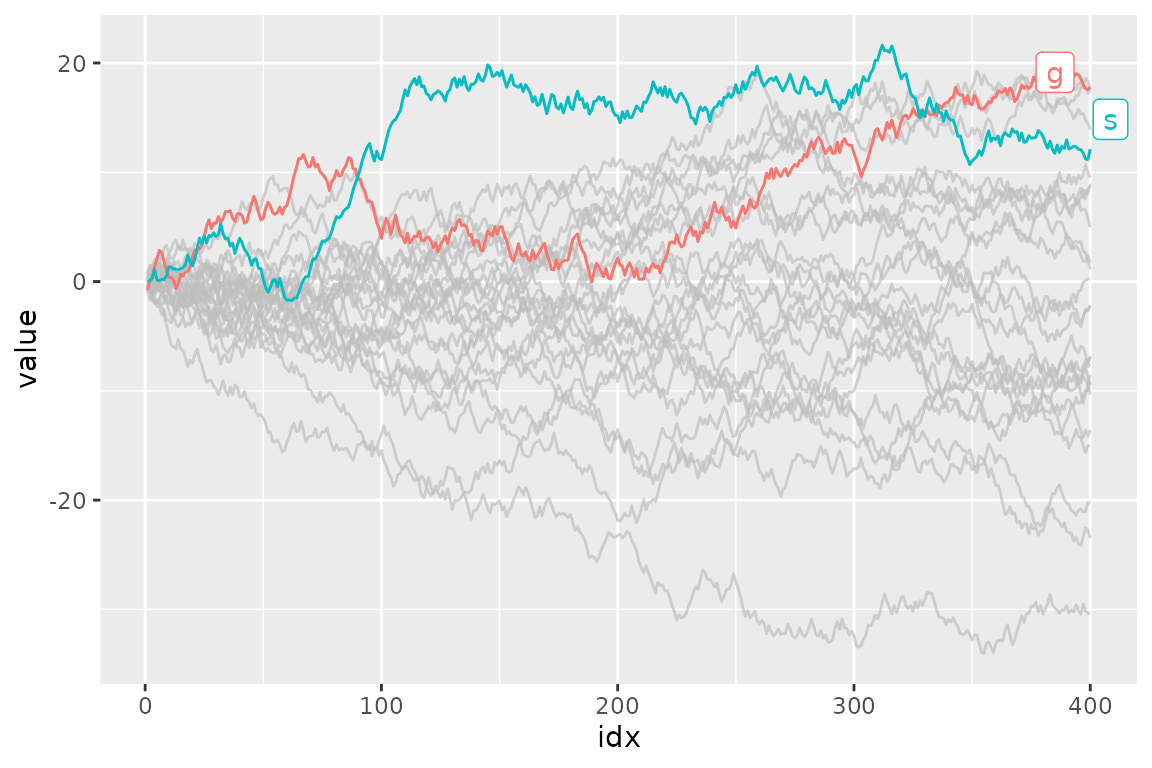
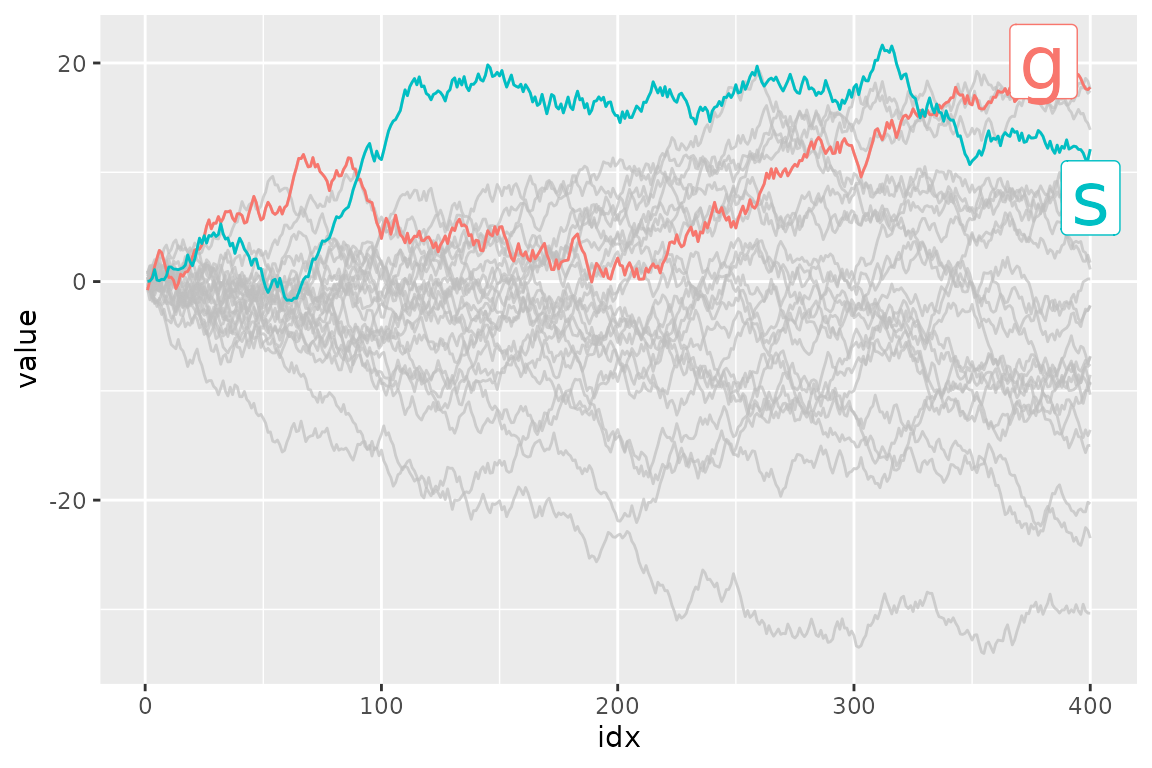
Deploying to gh-pages from @ yutannihilation/gghighlight@b142b0e23ae35bf7df1019fb720c96b7fc267750 🚀

Changed region(s): [[0.875, 0.0312, 0.9688, 0.3125]]

diff --git a/articles/gghighlight.html b/articles/gghighlight.html
@@ -55,7 +55,7 @@
                         <h4 data-toc-skip class="author">Hiroaki
 Yutani</h4>
             
-            <h4 data-toc-skip class="date">2024-07-17</h4>
+            <h4 data-toc-skip class="date">2024-08-04</h4>
       
       <small class="dont-index">Source: <a href="https://github.com/yutannihilation/gghighlight/blob/main/vignettes/gghighlight.Rmd" class="external-link"><code>vignettes/gghighlight.Rmd</code></a></small>
       <div class="d-none name"><code>gghighlight.Rmd</code></div>
@@ -275,10 +275,8 @@ customize the labels, you can pass parameters to it via
 <div class="sourceCode" id="cb14"><pre class="downlit sourceCode r">
 <code class="sourceCode R"><span><span class="fu"><a href="https://ggplot2.tidyverse.org/reference/ggplot.html" class="external-link">ggplot</a></span><span class="op">(</span><span class="va">d</span><span class="op">)</span> <span class="op">+</span></span>
 <span>  <span class="fu"><a href="https://ggplot2.tidyverse.org/reference/geom_path.html" class="external-link">geom_line</a></span><span class="op">(</span><span class="fu"><a href="https://ggplot2.tidyverse.org/reference/aes.html" class="external-link">aes</a></span><span class="op">(</span><span class="va">idx</span>, <span class="va">value</span>, colour <span class="op">=</span> <span class="va">type</span><span class="op">)</span><span class="op">)</span> <span class="op">+</span></span>
-<span>  <span class="fu"><a href="../reference/gghighlight.html">gghighlight</a></span><span class="op">(</span><span class="fu"><a href="https://rdrr.io/r/base/Extremes.html" class="external-link">max</a></span><span class="op">(</span><span class="va">value</span><span class="op">)</span> <span class="op">&gt;</span> <span class="fl">20</span>, label_params <span class="op">=</span> <span class="fu"><a href="https://rdrr.io/r/base/list.html" class="external-link">list</a></span><span class="op">(</span>linewidth <span class="op">=</span> <span class="fl">10</span><span class="op">)</span><span class="op">)</span></span>
-<span><span class="co">#&gt; label_key: type</span></span>
-<span><span class="co">#&gt; Warning in geom(mapping, rightmost_points, linewidth = 10): Ignoring</span></span>
-<span><span class="co">#&gt; unknown parameters: `linewidth`</span></span></code></pre></div>
+<span>  <span class="fu"><a href="../reference/gghighlight.html">gghighlight</a></span><span class="op">(</span><span class="fu"><a href="https://rdrr.io/r/base/Extremes.html" class="external-link">max</a></span><span class="op">(</span><span class="va">value</span><span class="op">)</span> <span class="op">&gt;</span> <span class="fl">20</span>, label_params <span class="op">=</span> <span class="fu"><a href="https://rdrr.io/r/base/list.html" class="external-link">list</a></span><span class="op">(</span>size <span class="op">=</span> <span class="fl">10</span><span class="op">)</span><span class="op">)</span></span>
+<span><span class="co">#&gt; label_key: type</span></span></code></pre></div>
 <p><img src="gghighlight_files/figure-html/labels2-1.png" width="576" style="display: block; margin: auto;"></p>
 <p>You can also add labels by yourself. It is easy to add labels on only
 highlighted data because <code><a href="../reference/gghighlight.html">gghighlight()</a></code> replaces the plot’s
